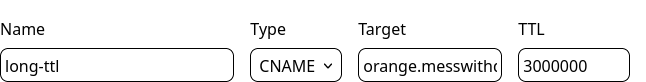
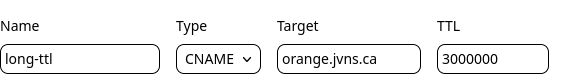
use orange.jvns.ca not orange.messwithdns.com

diff --git a/frontend/components/Experiments.html b/frontend/components/Experiments.html
@@ -62,7 +62,7 @@
                         <ul class="record-expl">
                             <li><strong>Name:</strong> fruit </li>
                             <li><strong>Type:</strong> CNAME </li>
-                            <li><strong>Target:</strong> <code>orange.messwithdns.com</code> </li>
+                            <li><strong>Target:</strong> <code>orange.jvns.ca</code> </li>
                             <li><strong>TTL: </strong> 60</li>
                         </ul>
                         <img src="/images/orange-cname.png">
@@ -132,8 +132,9 @@
                         <ul class="record-expl">
                             <li><strong>Name:</strong> visit-after <br> </li>
                             <li><strong>Type:</strong> CNAME <br> </li>
-                            <li><strong>Target:</strong> <code>orange.messwithdns.com</code> <br> </li>
+                            <li><strong>Target:</strong> <code>orange.jvns.ca</code> <br> </li>
                             <li><strong>TTL: </strong> 3600</li>
+
                         </ul>
                     </li>
                     <li>
@@ -150,9 +151,10 @@
                         <ul class="record-expl">
                             <li><strong>Name:</strong> visit-before <br> </li>
                             <li><strong>Type:</strong> CNAME <br> </li>
-                            <li><strong>Target:</strong> <code>orange.messwithdns.com</code> <br> </li>
+                            <li><strong>Target:</strong> <code>orange.jvns.ca</code> <br> </li>
                             <li><strong>TTL: </strong> 3600</li>
                         </ul>
+                            <img src="/images/visit-before.png">
                     </li>
                     <li>
                         Go to <domain-link subdomain="visit-before" :domain='domain'> </domain-link> in your browser again. You should get the same "Server Not Found" error as before. Even if you force reload the page!
@@ -234,7 +236,7 @@
                         <ul class="record-expl">
                             <li><strong>Name:</strong> short-ttl <br> </li>
                             <li><strong>Type:</strong> CNAME <br> </li>
-                            <li><strong>Target:</strong> <code>orange.messwithdns.com</code> <br> </li>
+                            <li><strong>Target:</strong> <code>orange.jvns.ca</code> <br> </li>
                             <li><strong>TTL: </strong> 30</li>
                         </ul>
                         <img src="/images/short-ttl.png">
@@ -244,7 +246,7 @@
                         in your browser. You should see an orange website.
                     </li>
                     <li>
-                        Click 'Edit' and change the CNAME record to point at <code>purple.messwithdns.com</code> instead.
+                        Click 'Edit' and change the CNAME record to point at <code>purple.jvns.ca</code> instead.
                         <img src="/images/short-purple-ttl.png">
                     </li>
                     <li>
@@ -263,7 +265,7 @@
                         <ul class="record-expl">
                             <li><strong>Name:</strong> long-ttl <br> </li>
                             <li><strong>Type:</strong> CNAME <br> </li>
-                            <li><strong>Target:</strong> <code>orange.messwithdns.com</code> <br> </li>
+                            <li><strong>Target:</strong> <code>orange.jvns.ca</code> <br> </li>
                             <li><strong>TTL: </strong> 3000000 (that's 30 days! Or use any reasonably big number)</li>
                         </ul>
                         <img src="/images/long-ttl.png">
@@ -273,7 +275,7 @@
                         in your browser. You should see an orange website.
                     </li>
                     <li>
-                        Click 'Edit' and change the CNAME record to point at <code>purple.messwithdns.com</code> instead.
+                        Click 'Edit' and change the CNAME record to point at <code>purple.jvns.ca</code> instead.
                         <img src="/images/long-purple-ttl.png">
                     </li>
                     <li>
